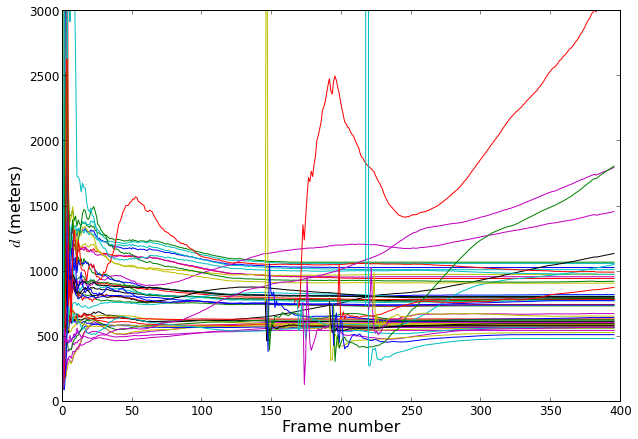
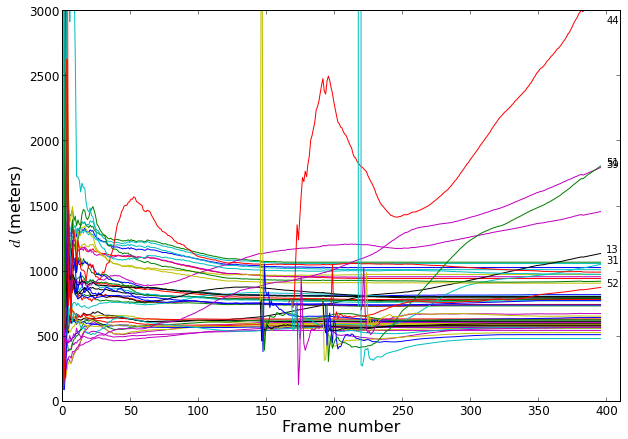
added intersect plots. slight edit in chapter3

diff --git a/Thesis/chapter3.tex b/Thesis/chapter3.tex
@@ -1,5 +1,4 @@
-\subsection{Algorithm Description}\label{section:_Toc332876129}
-\textit{This section describes the algorithm. Same as my paper}
+\chapter{Algorithm Description}
 
 The algorithm described in Chapter!!!Unresolved reference!!!3 was 
 implemented in Python programming language. An open source machine 
@@ -8,8 +7,7 @@ tracking. The feature extraction method used was the Shi-Tomasi corner
 detector. Feature tracking was accomplished through the pyramid 
 implementation of Lucas-Kanade optical flow method . 
 
-\subsubsection{Camera Centric Inverse Depth 
-Parameterization}\label{section:_Toc332876130}
+\section{Camera Centric Inverse Depth Parameterization}
 The standard way of describing a feature's position is to use the 
 Euclidean XYZ parameterization. In practical outdoor range estimation 
 problem, the algorithm must deal with features located at near infinity. 
@@ -31,71 +29,54 @@ approach with minor modification to integrate the inertial measurements.
 \begin{figure}[h]
 \centering
 \includegraphics[width=250.55pt,height=109.45pt]{media/image2.eps}
+\caption{Figure 2 Inverse Parameterization}
+\label{fig:algo1}
 \end{figure}
-
-
-\begin{center}Figure 2 Inverse Parameterization\end{center}
 
 A scene point $p_{i}^{C}$ can be defined by 6 parameters, with the 
 superscript $C$ representing a camera reference frame. ():
 
-\begin{table}[h]
-\centering
-\begin{tabular}{|l|l|}
-\hline
+\begin{equation}
 $p_{i}^{C}=\lbrack \begin{matrix}
 x_{i}^{C} & y_{i}^{C} & z_{i}^{C} & \rho _{i} & \varphi _{i}^{C} & 
 \theta _{i}^{C} & \\
 \end{matrix}
 \rbrack $\\
  & \\
-\hline
-\end{tabular}
-\end{table}
+\end{equation}
+
 The first three parameters $[x_{i}^{C}, y_{i}^{C}, z_{i}^{C}]$ 
-represent the initial position where the feature is first observed. $
-\rho _{i}$is the inverse distance from the initialization position to 
-the feature. The elevation-azimuth pair $[\varphi _{i}^{C}, \theta 
-_{i}^{C}]$ encodes a unit vector pointing from the initialization point 
+represent the initial position where the feature is first observed. $\rho _{i}$ is the inverse distance from the initialization position to 
+the feature. The elevation-azimuth pair $[\phi_{i}^{C}, \theta_{i}^{C}]$ encodes a unit vector pointing from the initialization point 
 to the feature. The vector is given by
 
-\begin{table}[h]
-\centering
-\begin{tabular}{|l|l|}
-\hline
-$m(\varphi _{i}^{C}, \theta _{i}^{C})=\lbrack \begin{matrix}
+\begin{equation}
+$m(\phi_{i}^{C}, \theta_{i}^{C})=\lbrack \begin{matrix}
 cos\varphi _{i}^{C}\cos \theta _{i}^{C} & \\
 \cos \varphi _{i}^{C}\sin \theta _{i}^{C} & \\
 \sin \varphi _{i}^{C} & \\
 \end{matrix}
 \rbrack $\\
  & \\
-\hline
-\end{tabular}
-\end{table}
+\end{equation}
 
 
-\subsubsection{Modeling the System with Extended Kalman 
-Filter}\label{section:_Toc332876131}
-Full State Vector
+\section{Modeling the System with Extended Kalman 
+Filter}
+
+\subsection{Full State Vector}
 
 The EKF state vector is defined as 
 
-\begin{table}[h]
-\centering
-\begin{tabular}{|l|l|}
-\hline
+\begin{equation}
 $x=\lbrack \begin{matrix}
 OX_{W}^{C} & c^{C} & r^{C} & p_{1}^{C} & p_{2}^{C} & \ldots & \\
 \end{matrix}
 \rbrack ^{T}$\\
  & \\
-\hline
-\end{tabular}
-\end{table}
-Equation 1
+\end{equation}
 
-where$OX_{W}^{C}=\lbrack \begin{matrix}
+where $OX_{W}^{C}=\lbrack \begin{matrix}
 O_{x}^{C} & O_{y}^{C} & O_{z}^{C} & \\
 \end{matrix}
 \begin{matrix}
